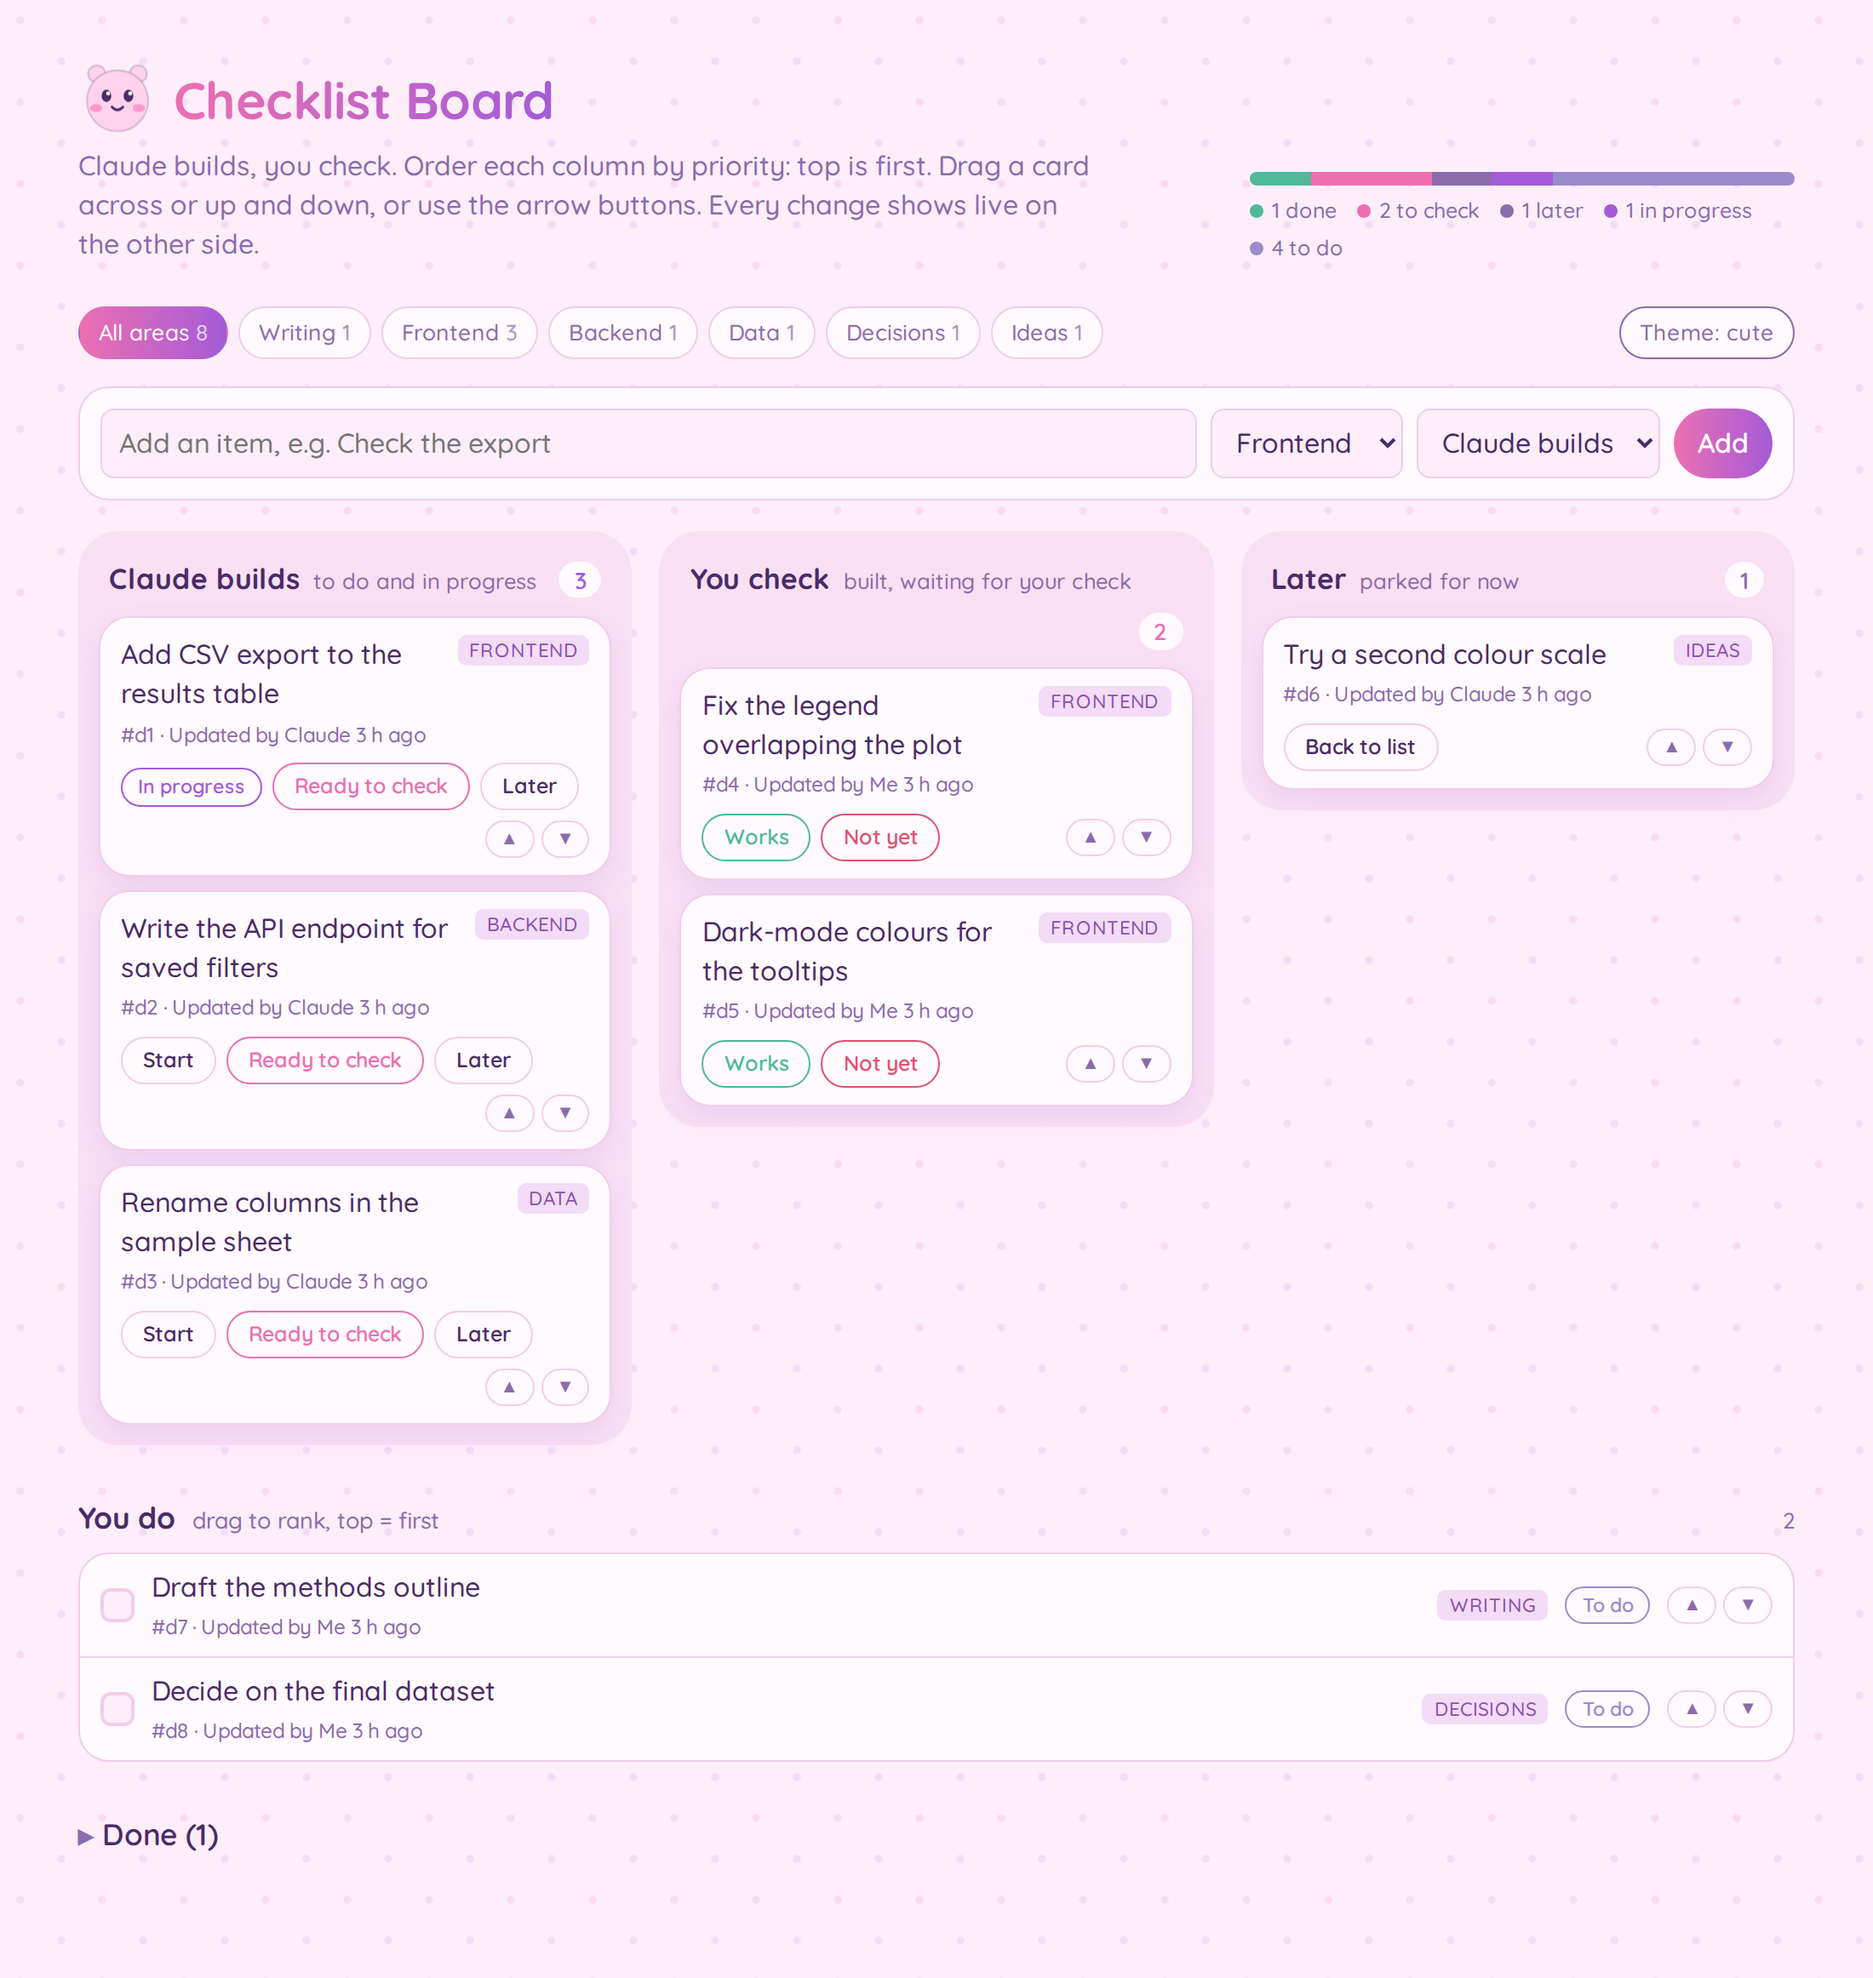
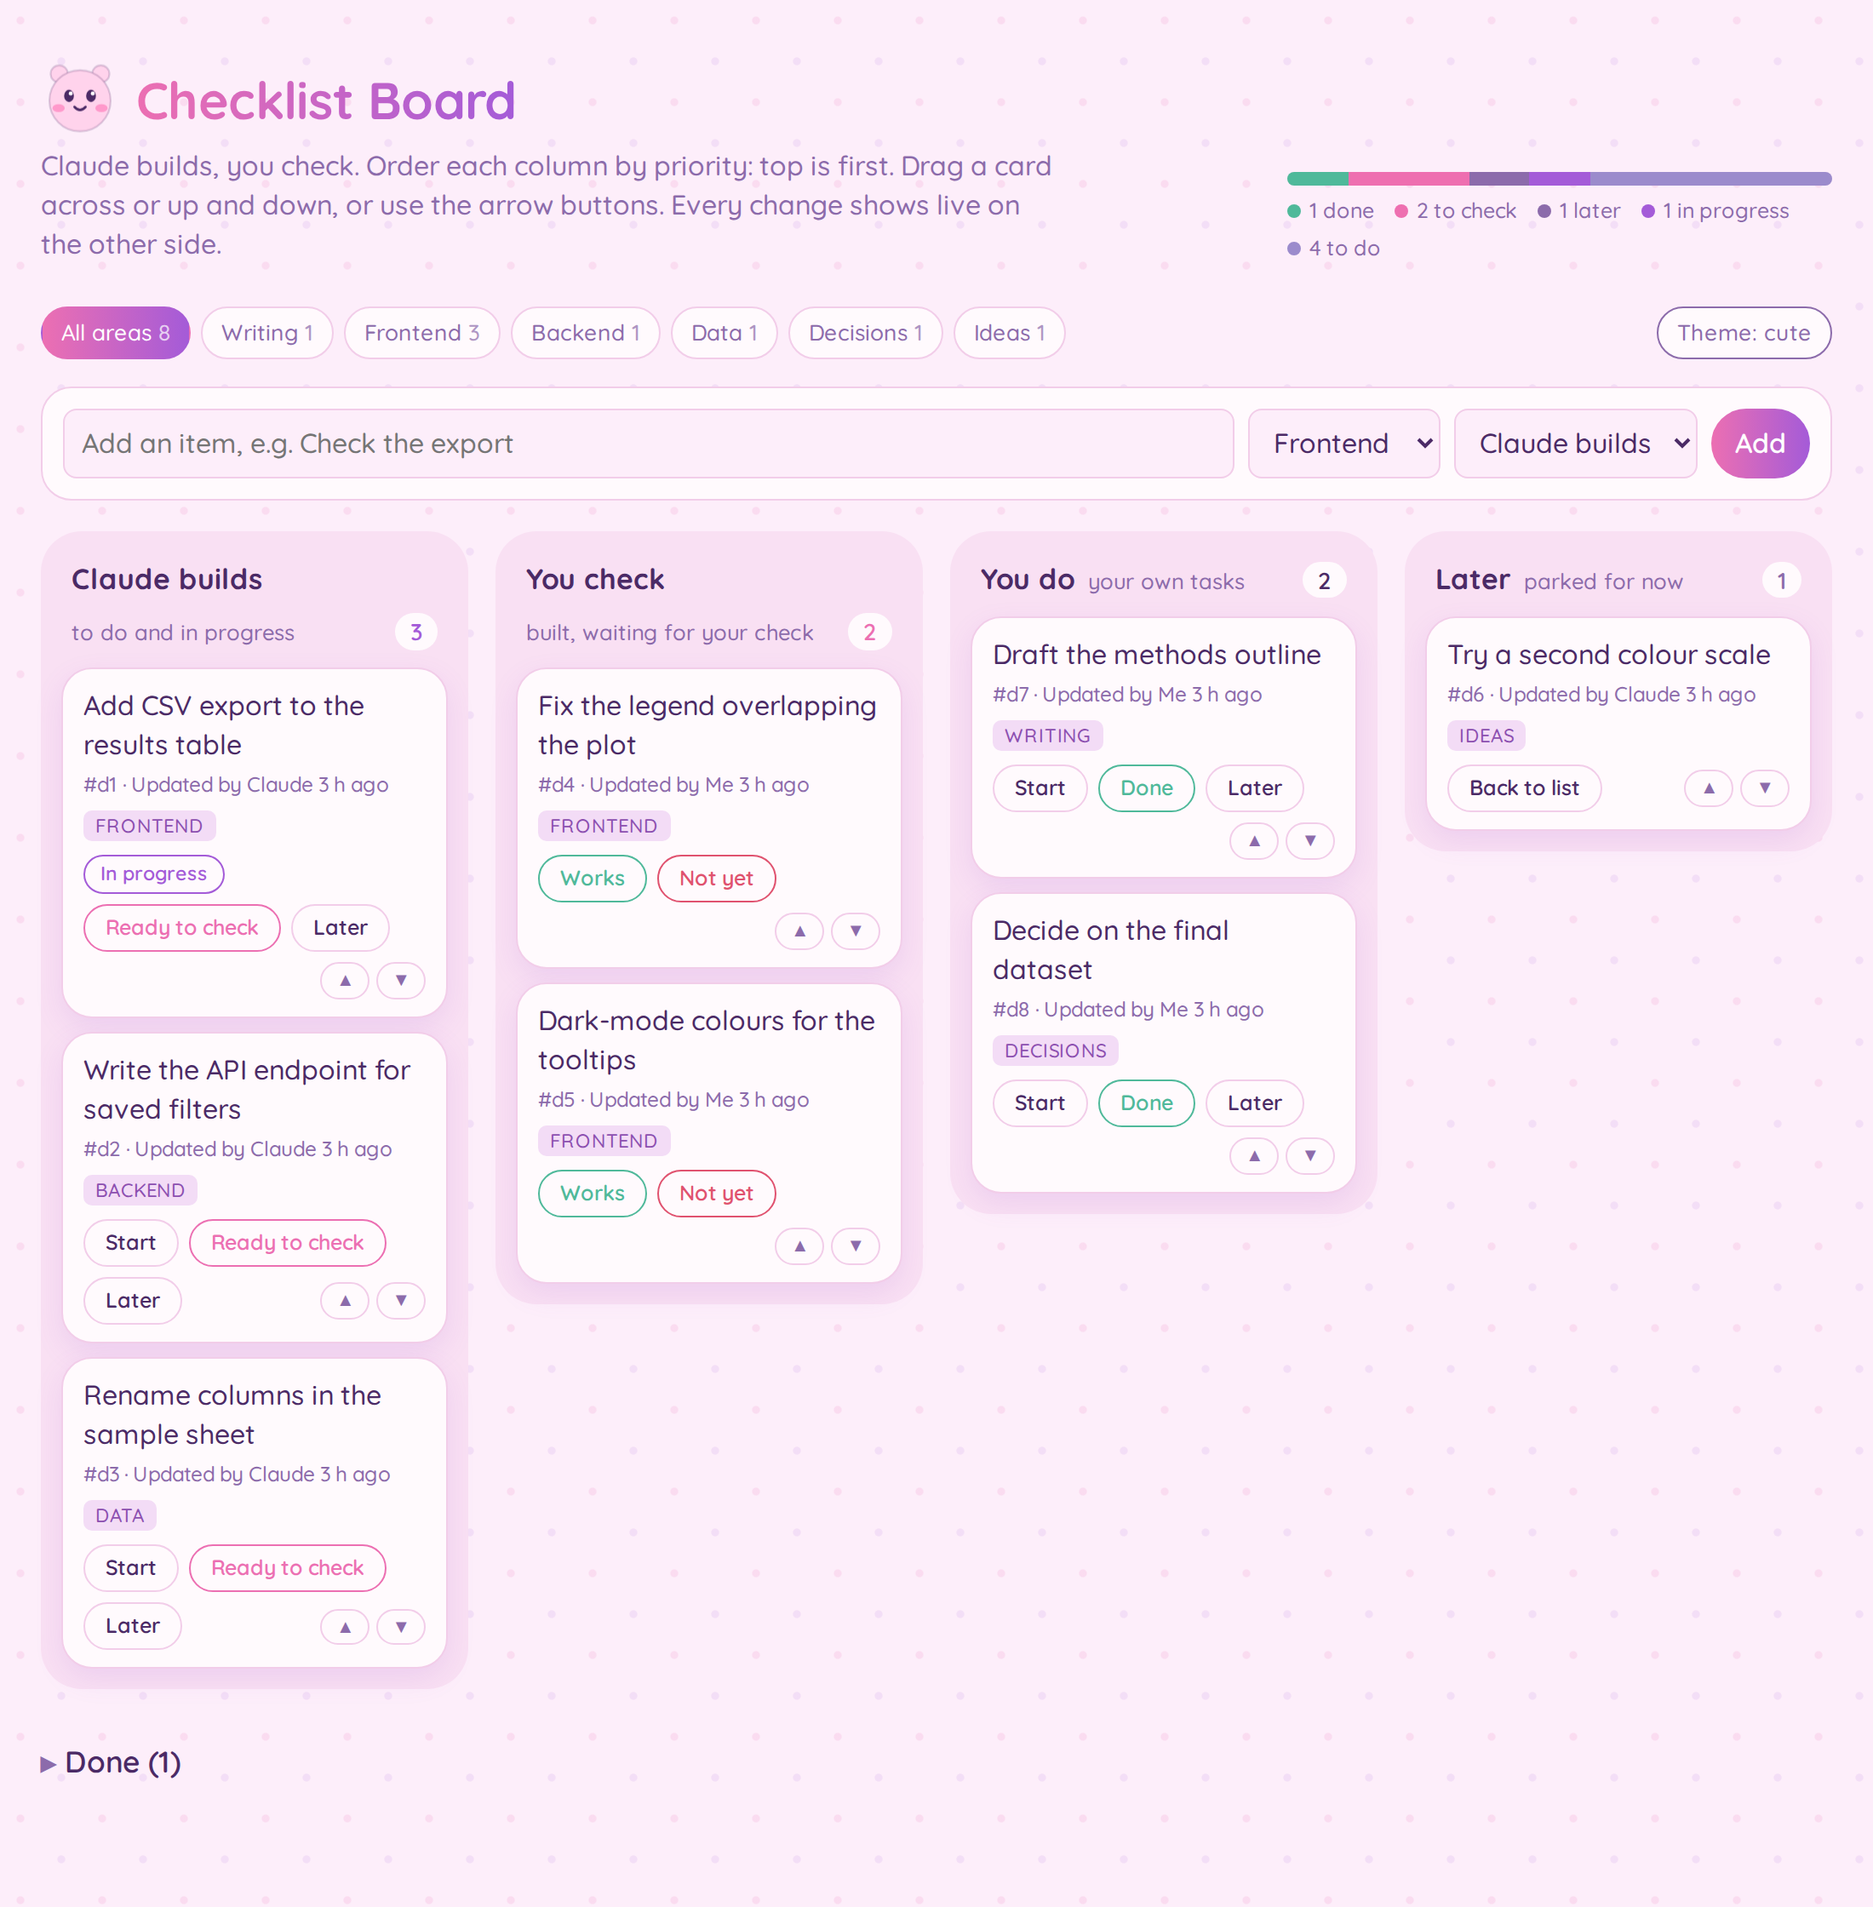
Unify the own-tasks column with the others and simplify
Own tasks are now a normal board column with the same cards, buttons and
drag and drop. Removed the checkbox, the To do pill and the status dropdown
(Block/Unblock moved into the expanded card; Done log rows get Reopen).
Four columns fit on wide windows. Screenshots regenerated.

diff --git a/index.html b/index.html
@@ -57,7 +57,7 @@ h1 { display: flex; align-items: center; gap: 10px; }
 @media (prefers-reduced-motion: no-preference) { :root[data-theme="cute"] .mascot { animation: bob 2.6s ease-in-out infinite; } @keyframes bob { 0%, 100% { transform: translateY(0); } 50% { transform: translateY(-3px); } } }
 * { box-sizing: border-box; }
 body { background: var(--bg); color: var(--ink); font-family: var(--font-body); line-height: 1.45; }
-.wrap { max-width: 1040px; margin: 0 auto; padding-block: 28px 64px; padding-left: max(16px, env(safe-area-inset-left, 0px)); padding-right: max(16px, env(safe-area-inset-right, 0px)); }
+.wrap { max-width: 1240px; margin: 0 auto; padding-block: 28px 64px; padding-left: max(16px, env(safe-area-inset-left, 0px)); padding-right: max(16px, env(safe-area-inset-right, 0px)); }
 h1, h2, h3 { font-family: var(--font-head); text-wrap: balance; margin: 0; }
 h1 { font-size: 1.9rem; letter-spacing: -0.01em; }
 .sub { color: var(--muted); margin: 4px 0 0; max-width: 60ch; }
@@ -88,7 +88,7 @@ textarea { width: 100%; resize: vertical; min-height: 58px; }
 @media (max-width: 640px) { .add { grid-template-columns: 1fr 1fr; } .add input[type=text] { grid-column: 1 / -1; } .add .btn { grid-column: 1 / -1; } }
 
 /* board */
-.board { display: grid; grid-template-columns: repeat(auto-fit, minmax(290px, 1fr)); gap: 16px; margin-top: 18px; align-items: start; }
+.board { display: grid; grid-template-columns: repeat(auto-fit, minmax(250px, 1fr)); gap: 16px; margin-top: 18px; align-items: start; }
 @media (max-width: 760px) { .board { grid-template-columns: 1fr; } }
 .col { background: var(--soft); border-radius: 14px; padding: 10px; min-width: 0; min-height: 140px; border: 2px solid transparent; }
 .col.over { border-color: var(--doing); }
@@ -344,9 +344,6 @@ details.done-log[open] > summary::before { content: "▾ "; }
   }
 
   function detailBlock(t, status) {
-    var statusSel = h("select", { id: "st-" + t.id, "aria-label": "Status", onchange: function (e) { save(t.id, { status: e.target.value }); } });
-    STATUS.forEach(function (s) { statusSel.appendChild(h("option", { value: s.id, text: s.name })); });
-    statusSel.value = status;
     var whoSel = h("select", { id: "wh-" + t.id, "aria-label": "Owner", onchange: function (e) { save(t.id, { who: e.target.value }); } },
       h("option", { value: "Claude", text: "Claude" }), h("option", { value: "Me", text: "Me" }), h("option", { value: "", text: "Anyone" }));
     whoSel.value = t.who || "";
@@ -359,13 +356,14 @@ details.done-log[open] > summary::before { content: "▾ "; }
     var chatIn = h("input", { type: "text", id: "ch-" + t.id, "aria-label": "Claude chat that owns this row", placeholder: "chat id", size: "14", style: "font:inherit;color:var(--ink);background:var(--bg);border:1px solid var(--line);border-radius:8px;padding:8px 10px" });
     chatIn.value = t.chat || "";
     chatIn.addEventListener("blur", function () { if (chatIn.value.trim() !== (t.chat || "")) save(t.id, { chat: chatIn.value.trim() }); });
+    var blockBtn = ["todo", "doing", "blocked"].indexOf(status) < 0 ? null : h("button", { class: "btn ghost", type: "button", text: status === "blocked" ? "Unblock" : "Block", onclick: function () { save(t.id, { status: status === "blocked" ? "todo" : "blocked" }); } });
     var del = h("button", { class: "btn ghost danger", type: "button", style: "margin-left:auto", text: "Delete", onclick: function () {
       if (del.dataset.arm === "1") removeTask(t.id); else { del.dataset.arm = "1"; del.textContent = "Click again to delete"; }
     } });
     return h("div", { class: "detail" },
       t.detail ? h("p", { text: t.detail }) : null,
-      h("div", { class: "controls" }, h("label", null, "Status", statusSel), h("label", null, "Owner", whoSel), h("label", null, "Area", areaSel), h("label", null, "Chat (id)", chatIn),
-        del),
+      h("div", { class: "controls" }, h("label", null, "Owner", whoSel), h("label", null, "Area", areaSel), h("label", null, "Chat (id)", chatIn),
+        blockBtn, del),
       note, askBlock(t));
   }
   // Message to Claude on one row: posts a comment anchored to the row and sends it to the Claude session (comments capability, editors only).
@@ -454,7 +452,8 @@ details.done-log[open] > summary::before { content: "▾ "; }
       actions.push(h("button", { class: "mini", type: "button", title: "Put it back on the list", onclick: function () { save(t.id, { status: "todo" }); }, text: "Back to list" }));
     } else {
       if (status === "todo") actions.push(h("button", { class: "mini", type: "button", onclick: function () { save(t.id, { status: "doing" }); }, text: "Start" }));
-      actions.push(h("button", { class: "mini go", type: "button", title: "Built and ready for your check", onclick: function () { toCheck(t); }, text: "Ready to check" }));
+      if (which === "mine") actions.push(h("button", { class: "mini ok", type: "button", title: "Mark as done", onclick: function () { save(t.id, { status: "done" }); }, text: "Done" }));
+      else actions.push(h("button", { class: "mini go", type: "button", title: "Built and ready for your check", onclick: function () { toCheck(t); }, text: "Ready to check" }));
       actions.push(h("button", { class: "mini", type: "button", title: "Park it for later", onclick: function () { save(t.id, { status: "later" }); }, text: "Later" }));
     }
     var card = h("div", { class: "card", draggable: expanded[t.id] ? false : "true" },
@@ -493,7 +492,7 @@ details.done-log[open] > summary::before { content: "▾ "; }
   }
   function renderColumn(kind, title, sub, items) {
     var body = items.length ? h("div", { class: "cards" }, items.map(function (t) { return renderCard(t, kind); }))
-      : h("div", { class: "empty-col", text: kind === "check" ? "Nothing waiting for your check." : kind === "later" ? "Nothing parked." : "Nothing queued for Claude." });
+      : h("div", { class: "empty-col", text: kind === "check" ? "Nothing waiting for your check." : kind === "later" ? "Nothing parked." : kind === "mine" ? "Nothing for you." : "Nothing queued for Claude." });
     var c = h("div", { class: "col col-" + kind },
       h("div", { class: "col-head" }, h("h2", { text: title }), h("span", { class: "sub2", text: sub }), h("span", { class: "cnt", text: String(items.length) })),
       body);
@@ -509,60 +508,14 @@ details.done-log[open] > summary::before { content: "▾ "; }
     return c;
   }
 
-  // A row in the lists below the board.
+  // A row in the done log: title and a Reopen button.
   function renderRow(t) {
     var status = normStatus(t);
-    var chk = h("input", { type: "checkbox", class: "check", "aria-label": "Done: " + t.title, onchange: function (e) {
-      save(t.id, { status: e.target.checked ? "done" : "todo" });
-    } });
-    chk.checked = status === "done";
-    var row = h("div", { class: "row" + (status === "done" ? " done" : "") },
-      h("div", { class: "row-main" }, chk, titleBlock(t),
-        h("span", { class: "pill " + status, text: STATUS.filter(function (s) { return s.id === status; })[0].name })));
+    var row = h("div", { class: "row done" },
+      h("div", { class: "row-main" }, titleBlock(t),
+        h("button", { class: "mini", type: "button", text: "Reopen", onclick: function () { save(t.id, { status: "todo" }); } })));
     if (expanded[t.id]) row.appendChild(detailBlock(t, status));
     return row;
-  }
-  // Your own tasks as one ranked list (top = first priority): drag a row, or use the arrows; the order is saved as `rank`.
-  function renderyouRow(t, i) {
-    var row = renderRow(t); row.classList.add("rank"); if (!expanded[t.id]) row.setAttribute("draggable", "true"); else row.classList.add("open");
-    var main = row.querySelector(".row-main"), pill = main.querySelector(".pill");
-    main.insertBefore(h("span", { class: "area-tag", text: areaName(t.area) }), pill);
-    main.appendChild(h("span", { class: "movers" },
-      h("button", { class: "mini mv", type: "button", "aria-label": "Higher priority", title: "Higher priority", onclick: function () { nudge(t, "mine", -1); }, text: "▲" }),
-      h("button", { class: "mini mv", type: "button", "aria-label": "Lower priority", title: "Lower priority", onclick: function () { nudge(t, "mine", 1); }, text: "▼" })));
-    row.addEventListener("dragstart", function (e) { dragId = t.id; row.classList.add("dragging"); try { e.dataTransfer.setData("text/plain", t.id); e.dataTransfer.effectAllowed = "move"; } catch (x) {} });
-    row.addEventListener("dragend", function () { dragId = null; row.classList.remove("dragging"); });
-    row.addEventListener("dragover", function (e) {
-      if (!dragId || dragId === t.id) return;
-      e.preventDefault(); e.stopPropagation();
-      var r = row.getBoundingClientRect(), before = e.clientY < r.top + r.height / 2;
-      row.classList.toggle("drop-before", before); row.classList.toggle("drop-after", !before);
-    });
-    row.addEventListener("dragleave", function () { row.classList.remove("drop-before", "drop-after"); });
-    row.addEventListener("drop", function (e) {
-      if (!dragId || dragId === t.id) return;
-      e.preventDefault(); e.stopPropagation();
-      var before = row.classList.contains("drop-before");
-      row.classList.remove("drop-before", "drop-after");
-      var moved = tasks.filter(function (x) { return x.id === dragId; })[0];
-      dragId = null;
-      if (!moved) return;
-      var items = boardSorted(tasks.filter(function (x) { return x.id !== moved.id && inMine(x); }));
-      var k = items.map(function (x) { return x.id; }).indexOf(t.id);
-      moveCard(moved, "mine", before ? t.id : (items[k + 1] ? items[k + 1].id : null));
-    });
-    return row;
-  }
-  function mineList(items) {
-    var list = h("div", { class: "list" }, boardSorted(items).map(renderyouRow));
-    list.addEventListener("dragover", function (e) { if (dragId) { e.preventDefault(); list.classList.add("over"); } });
-    list.addEventListener("dragleave", function (e) { if (!list.contains(e.relatedTarget)) list.classList.remove("over"); });
-    list.addEventListener("drop", function (e) {
-      e.preventDefault(); list.classList.remove("over");
-      var t = tasks.filter(function (x) { return x.id === dragId; })[0]; dragId = null;
-      if (t) moveCard(t, "mine", null);
-    });
-    return list;
   }
   function groupedList(items) {
     var wrap = h("div", null);
@@ -588,17 +541,13 @@ details.done-log[open] > summary::before { content: "▾ "; }
     var claude = boardSorted(tasks.filter(function (t) { return inClaude(t) && inArea(t); }));
     var check = boardSorted(tasks.filter(function (t) { return inCheck(t) && inArea(t); }));
     var later = boardSorted(tasks.filter(function (t) { return inLater(t) && inArea(t); }));
+    var mine = boardSorted(tasks.filter(function (t) { return inMine(t) && inArea(t); }));
     main.appendChild(h("div", { class: "board" },
       renderColumn("claude", "Claude builds", "to do and in progress", claude),
       renderColumn("check", "You check", "built, waiting for your check", check),
+      renderColumn("mine", "You do", "your own tasks", mine),
       renderColumn("later", "Later", "parked for now", later)));
 
-    var mine = tasks.filter(function (t) { return inMine(t) && inArea(t); });
-    if (mine.length) {
-      main.appendChild(h("section", { class: "lower" },
-        h("div", { class: "lower-head" }, h("h2", { text: "You do" }), h("span", { class: "hint", text: "drag to rank, top = first" }), h("span", { class: "cnt", text: String(mine.length) })),
-        mineList(mine)));
-    }
     var done = tasks.filter(function (t) { return isDone(t) && inArea(t); });
     var det = h("details", { class: "done-log" }, h("summary", null, "Done (" + done.length + ")"), groupedList(done));
     if (doneOpen) det.setAttribute("open", "");
